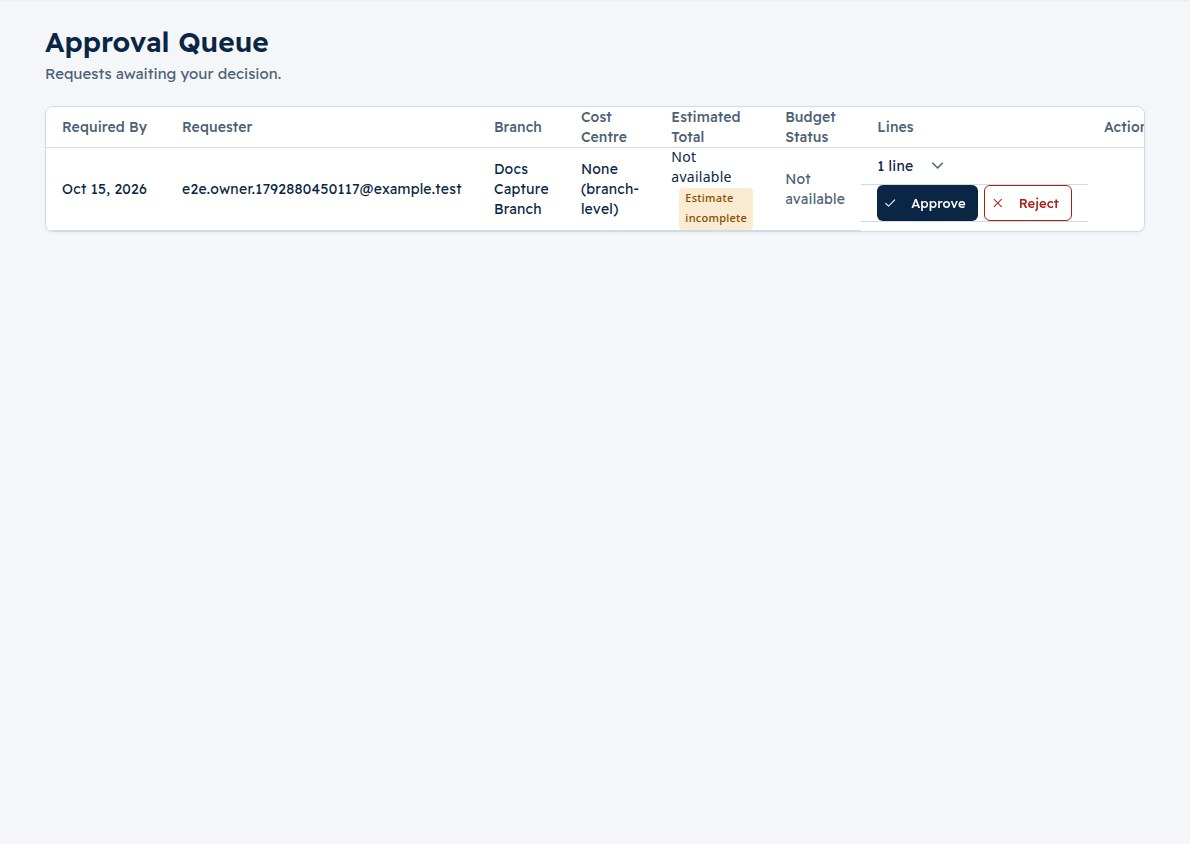
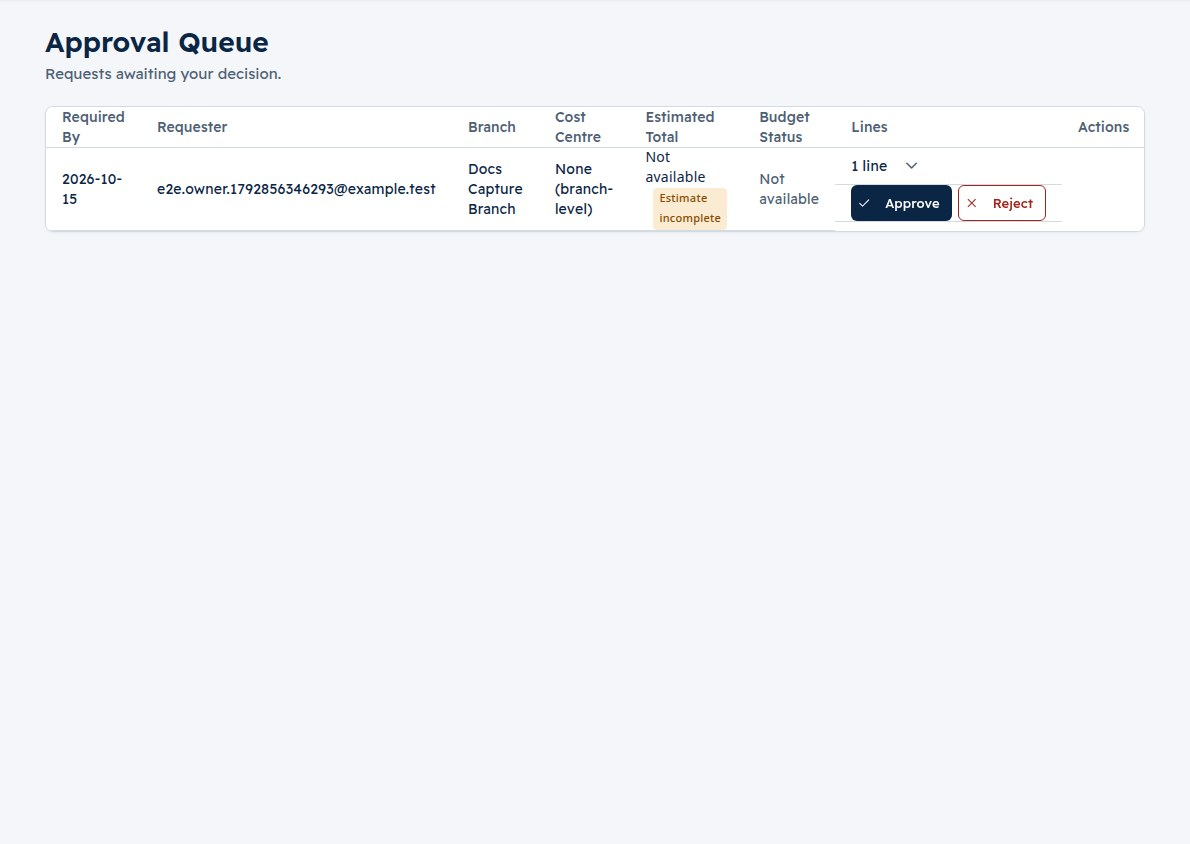
fix(web): show the sub-pixel date overflow instead of widening the column (PPS-60)
nowrap + min-inline-size: 7.5rem made the Required By column ~120 px;
at the docs viewport that pushed the approval-queue table past its
container and cut the Actions header to "Actio", and it stopped the
English date wrapping.

Re-measured on hosted, the real overflow is sub-pixel: Arabic text
60.11 px in a 60.00 px content box, which Material's
overflow: hidden + text-overflow: ellipsis turns into "…". The cell now
only sets overflow: visible: the full date shows at 1440 and 1024 px
and no column width changes. Restores the main version of
17-approval-queue.jpg, since the layout no longer changes.

Changed region(s): [[0.0311, 0.1232, 0.9017, 0.2773], [0.9017, 0.1232, 0.9639, 0.154]]

diff --git a/apps/web/src/app/features/approvals/approval-queue/approval-queue.component.spec.ts b/apps/web/src/app/features/approvals/approval-queue/approval-queue.component.spec.ts
@@ -589,13 +589,14 @@ describe('ApprovalQueueComponent', () => {
     expect(compiled.querySelector('.line-details-title')?.textContent?.trim()).toContain('(٢)');
   });
 
-  // Guards PPS-60: in Arabic, the Required By date was clipped by Material's table
-  // ellipsis without whitespace: nowrap and min-inline-size. The clip itself depends
-  // on real font metrics and is verified by the landing-gallery capture.
+  // Guards PPS-60: in Arabic, the Required By date suffered a sub-pixel overflow
+  // under Material's table ellipsis. Setting overflow: visible prevents the clip
+  // without distorting column widths. The clip itself depends on real font metrics
+  // and is verified by the landing-gallery capture.
   it('prevents clipping on the Required By cell via date-cell styling', () => {
     const cell = fixture.nativeElement.querySelector('td.mat-column-requiredByDate') as HTMLElement;
     expect(cell).toBeTruthy();
     expect(cell.classList.contains('date-cell')).toBeTrue();
-    expect(getComputedStyle(cell).whiteSpace).toBe('nowrap');
+    expect(getComputedStyle(cell).overflow).toBe('visible');
   });
 });

diff --git a/apps/web/src/app/features/requests/request-list/request-list.component.spec.ts b/apps/web/src/app/features/requests/request-list/request-list.component.spec.ts
@@ -316,13 +316,14 @@ describe('RequestListComponent (T017)', () => {
     expect(/[0-9]/.test(component.formatRequiredBy('2026-09-20'))).toBeFalse();
   });
 
-  // Guards PPS-60: in Arabic, the Required By date was clipped by Material's table
-  // ellipsis without whitespace: nowrap and min-inline-size. The clip itself depends
-  // on real font metrics and is verified by the landing-gallery capture.
+  // Guards PPS-60: in Arabic, the Required By date suffered a sub-pixel overflow
+  // under Material's table ellipsis. Setting overflow: visible prevents the clip
+  // without distorting column widths. The clip itself depends on real font metrics
+  // and is verified by the landing-gallery capture.
   it('prevents clipping on the Required By cell via date-cell styling', () => {
     const cell = fixture.nativeElement.querySelector('td.mat-column-requiredByDate') as HTMLElement;
     expect(cell).toBeTruthy();
     expect(cell.classList.contains('date-cell')).toBeTrue();
-    expect(getComputedStyle(cell).whiteSpace).toBe('nowrap');
+    expect(getComputedStyle(cell).overflow).toBe('visible');
   });
 });

diff --git a/apps/web/src/app/features/requests/request-list/request-list.component.scss b/apps/web/src/app/features/requests/request-list/request-list.component.scss
@@ -200,8 +200,7 @@
 }
 
 td.date-cell {
-  white-space: nowrap;
-  min-inline-size: 7.5rem;
+  overflow: visible;
 }
 
 .actions-cell {

diff --git a/apps/web/src/app/features/approvals/approval-queue/approval-queue.component.scss b/apps/web/src/app/features/approvals/approval-queue/approval-queue.component.scss
@@ -204,8 +204,7 @@
 }
 
 td.date-cell {
-  white-space: nowrap;
-  min-inline-size: 7.5rem;
+  overflow: visible;
 }
 
 .lines-cell,
